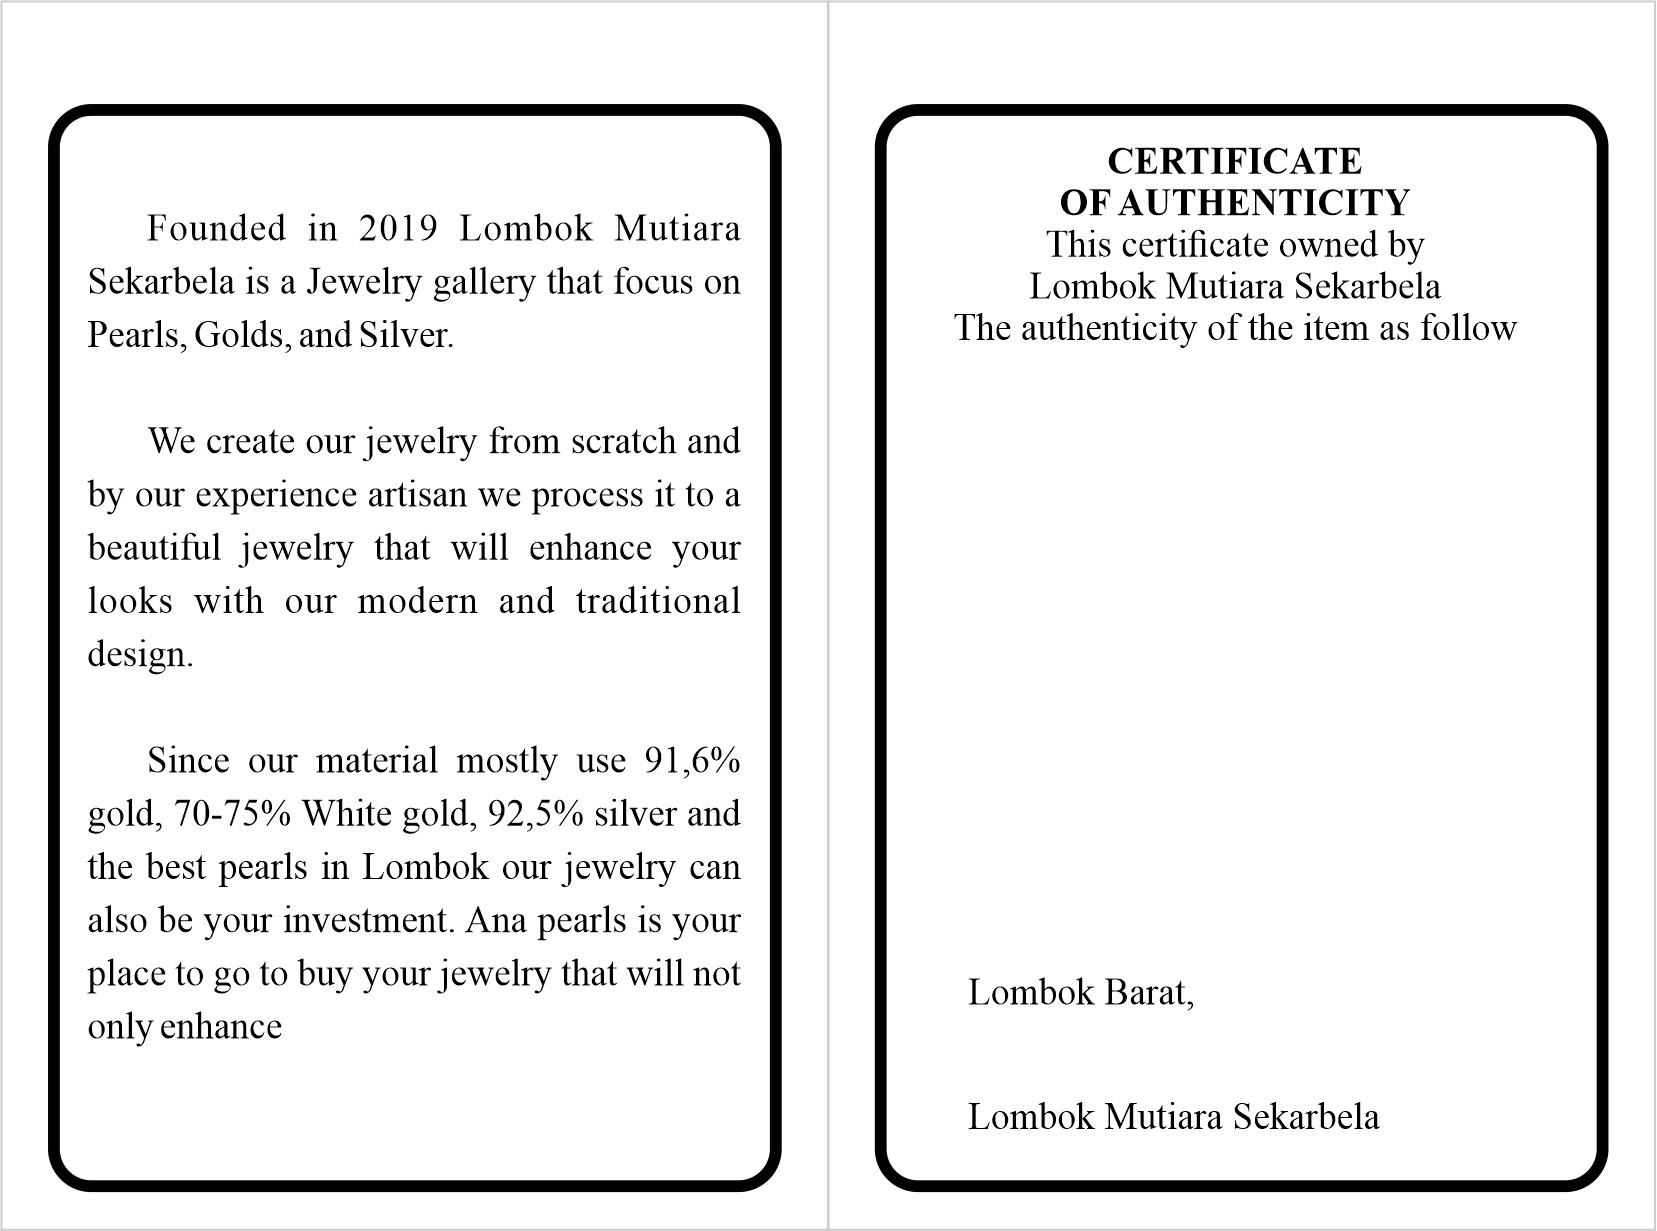
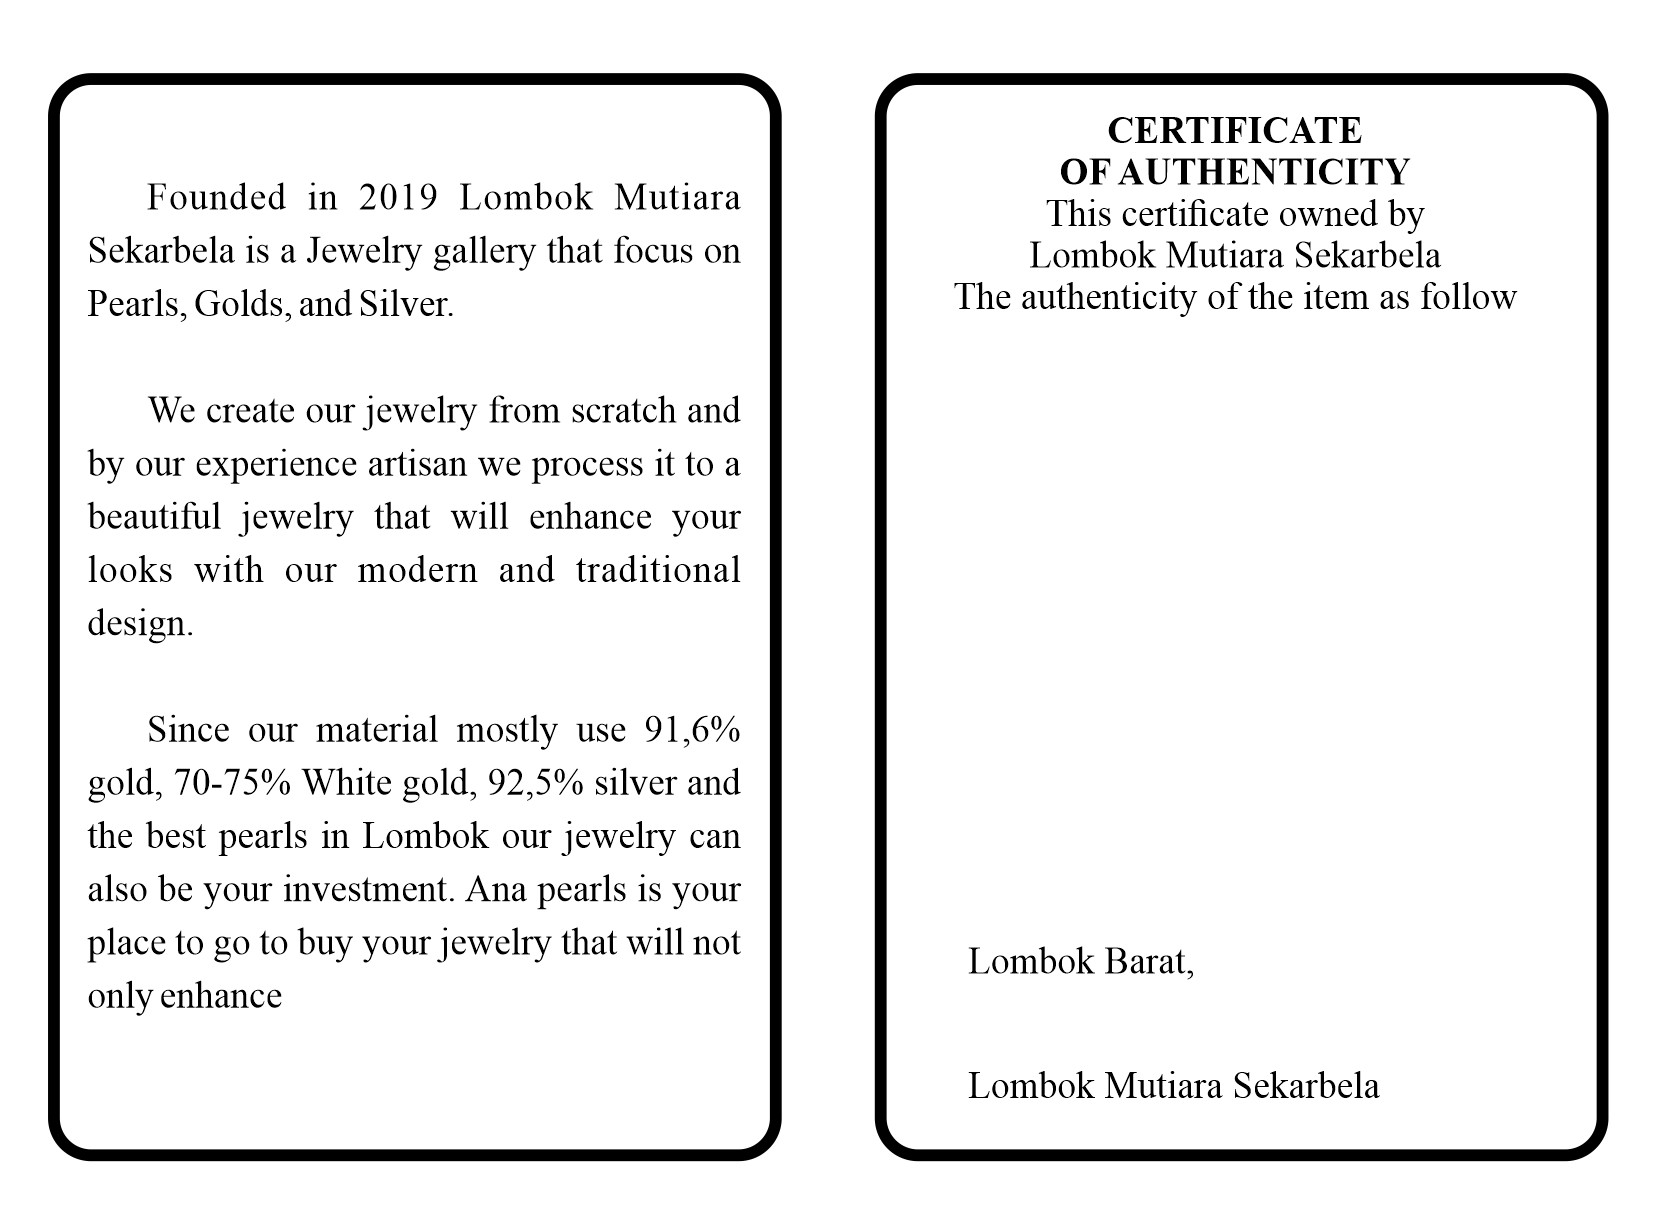
Update Setif

diff --git a/app/Http/Controllers/ProductController.php b/app/Http/Controllers/ProductController.php
@@ -211,18 +211,18 @@ class ProductController extends Controller
         // return $id;
         $data = Product::where('id', $id)->first();
         // return $data;
-        $pdf = new Fpdf('L', 'mm', array(104, 140));
+        $pdf = new Fpdf('L', 'mm', array(102, 140));
 
         $pdf->SetFont('Arial', 'B', 15);
         $pdf->AddPage();
 
-        $pdf->Image("storage/img/sertif2.jpg", 0, 0, 140, 104);
+        $pdf->Image("storage/img/sertif2.jpg", 0, 0, 140, 102);
         $pdf->SetMargins(0, 0, 0);
 
 
         $pdf->SetFont('Times', '', 9);
         // $pdf->SetXY(96, 34);
-        $pdf->Ln(20);
+        $pdf->Ln(18);
         $pdf->Cell(76, 5, '', 0, 0, 'L');
         $pdf->Cell(20, 5, 'Product Type', 0, 0, 'L');
         $pdf->Cell(44, 5, ': ' . $data->type, 0, 1, 'L');
